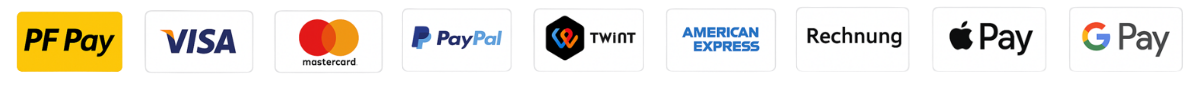
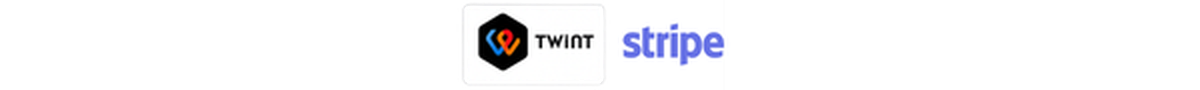
footer: replace payment-methods asset with TWINT + Stripe lockup
CEO supplied a new 600×45 PNG with just two payment-provider marks:
TWINT (Swiss wallet) + Stripe (cards + Apple Pay + Google Pay + Link).
Upscaled 2× with Lanczos to 1200×90 lossless WebP — matches the previous
asset's dimensions so the existing <Image width=500 h-10> markup needs
no layout change.

Side benefit: 53 KB → 14 KB (logo lockup compresses much better than
the old 9-provider lineup).

alt text tightened to "Zahlungsmethoden: TWINT und Stripe" (was a
9-method list — would now misrepresent the visible image).

Stripe carries Visa / Mastercard / Amex / Apple Pay / Google Pay /
Link under the hood, so coverage is unchanged at the processor level.

diff --git a/src/components/layout/Footer.tsx b/src/components/layout/Footer.tsx
@@ -192,7 +192,7 @@ export default function Footer() {
             {/* Payment methods image — replace src with actual image */}
             <Image
               src="/images/payment-methods.webp"
-              alt="Zahlungsmethoden: PostFinance, Visa, Mastercard, PayPal, TWINT, American Express, Rechnung, Apple Pay, Google Pay"
+              alt="Zahlungsmethoden: TWINT und Stripe"
               width={500}
               height={40}
               className="h-10 w-auto"
